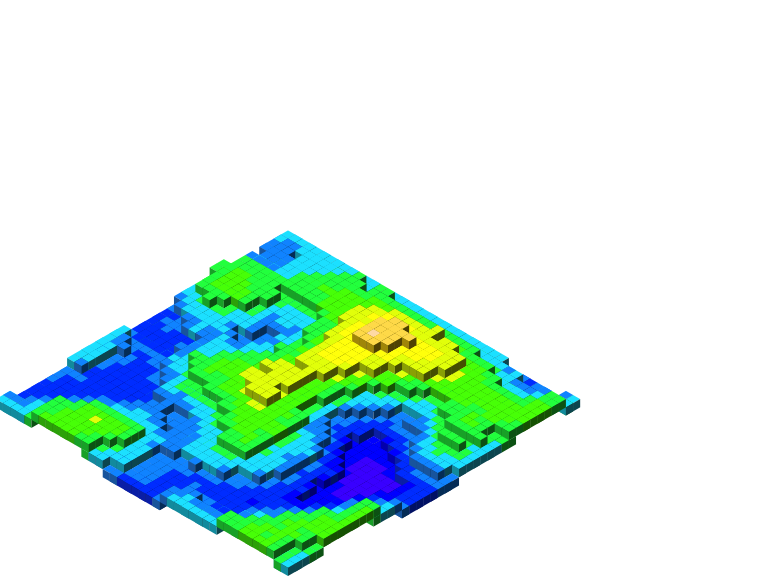
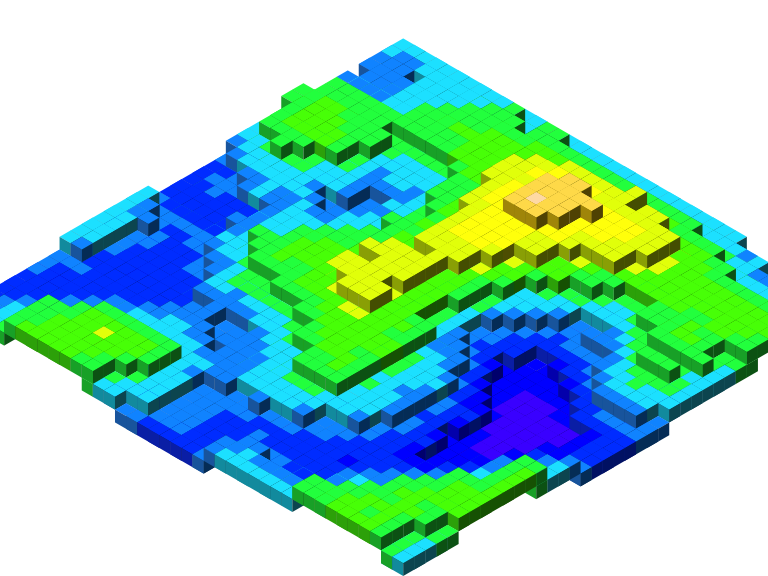
sdfs

diff --git a/README.md b/README.md
@@ -240,7 +240,7 @@ pal  <- topo.colors(11)
 sy   <- as.integer(10 * (hm$y - min(hm$y)) / diff(range(hm$y))) + 1
 cols <- pal[sy]
 
-cubes  <- isocubesGrob(hm, ysize = 1/70, fill = cols, col = NA)
+cubes  <- isocubesGrob(hm, ysize = 1/45, xo = 0.7, fill = cols, col = NA)
 
 grid.newpage(); grid.draw(cubes)
 ```
@@ -272,6 +272,91 @@ grid.newpage(); grid.draw(cubes)
 ```
 
 <img src="man/figures/README-unnamed-chunk-5-1.png" width="100%" />
+
+## Signed Distance Fields - Simple
+
+``` r
+library(grid)
+library(dplyr)
+library(isocubes)
+
+# Create a scene that consists of a scaled torus
+scene <- sdf_torus(3, 1) %>% 
+  sdf_scale(5)
+
+# Render the scene into a list of coordinates of voxels inside objects
+coords <- sdf_render(scene, N = 30)
+
+# Create cubes, and draw
+cubes  <- isocubesGrob(coords, ysize = 1/50, xo = 0.5, yo = 0.5, fill = 'lightblue')
+grid.newpage(); grid.draw(cubes)
+```
+
+<img src="man/figures/README-unnamed-chunk-6-1.png" width="100%" />
+
+## Signed Distance Fields - More Complex
+
+``` r
+library(dplyr)
+library(grid)
+library(isocubes)
+
+
+sphere <- sdf_sphere() %>%
+  sdf_scale(40)
+
+box <- sdf_box() %>%
+  sdf_scale(32)
+
+cyl <- sdf_cyl() %>%
+  sdf_scale(16)
+
+scene <- sdf_subtract_smooth(
+  sdf_intersect(box, sphere),
+  sdf_union(
+    cyl,
+    sdf_rotatey(cyl, pi/2),
+    sdf_rotatex(cyl, pi/2)
+  )
+)
+
+coords <- sdf_render(scene, 50)
+cubes  <- isocubesGrob(coords, ysize = 1/100, xo = 0.5, yo = 0.5, fill = 'lightseagreen')
+grid.newpage(); grid.draw(cubes)
+```
+
+<img src="man/figures/README-unnamed-chunk-7-1.png" width="100%" />
+
+## Signed Distance Fields - Animated
+
+Unfortunately this isn’t fast enough to animate in realtime, so I’ve
+stitched together individuall saved frames to create an animation.
+
+``` r
+thetas <- seq(0, pi, length.out = 45)
+
+for (i in seq_along(thetas)) {
+  cat('.')
+  theta <- thetas[i]
+  
+  rot_scene <- scene %>% 
+    sdf_rotatey(theta) %>%
+    sdf_rotatex(theta * 2) %>%
+    sdf_rotatez(theta / 2)
+  
+  coords <- sdf_render(rot_scene, 50)
+  cubes  <- isocubesGrob(coords, ysize = 1/110, xo = 0.5, yo = 0.5)
+  
+  png_filename <- sprintf("working/anim/%03i.png", i)
+  png(png_filename, width = 800, height = 800)
+  grid.draw(cubes)
+  dev.off()
+}
+
+# ffmpeg -y -framerate 20 -pattern_type glob -i 'anim/*.png' -c:v libx264 -pix_fmt yuv420p -s 800x800 'anim.mp4'
+```
+
+<img src="man/figures/sdf.gif" />
 
 ## Technical Bits
 

diff --git a/NEWS.md b/NEWS.md
@@ -1,7 +1,11 @@
 # isocubes 0.1.2  2022-06-23
 
-* Suite of objects, combinators and transforms for signed distance fields 
-  rendering to isocubes.
+* Replaced `max_y` argument with its inverse `ysize`
+* Added Signed Distance Fields (`sdf_*()`) for 
+    * object creation
+    * object transformation
+    * object combinations
+  
 
 # isocubes 0.1.1  2022-06-21
 
